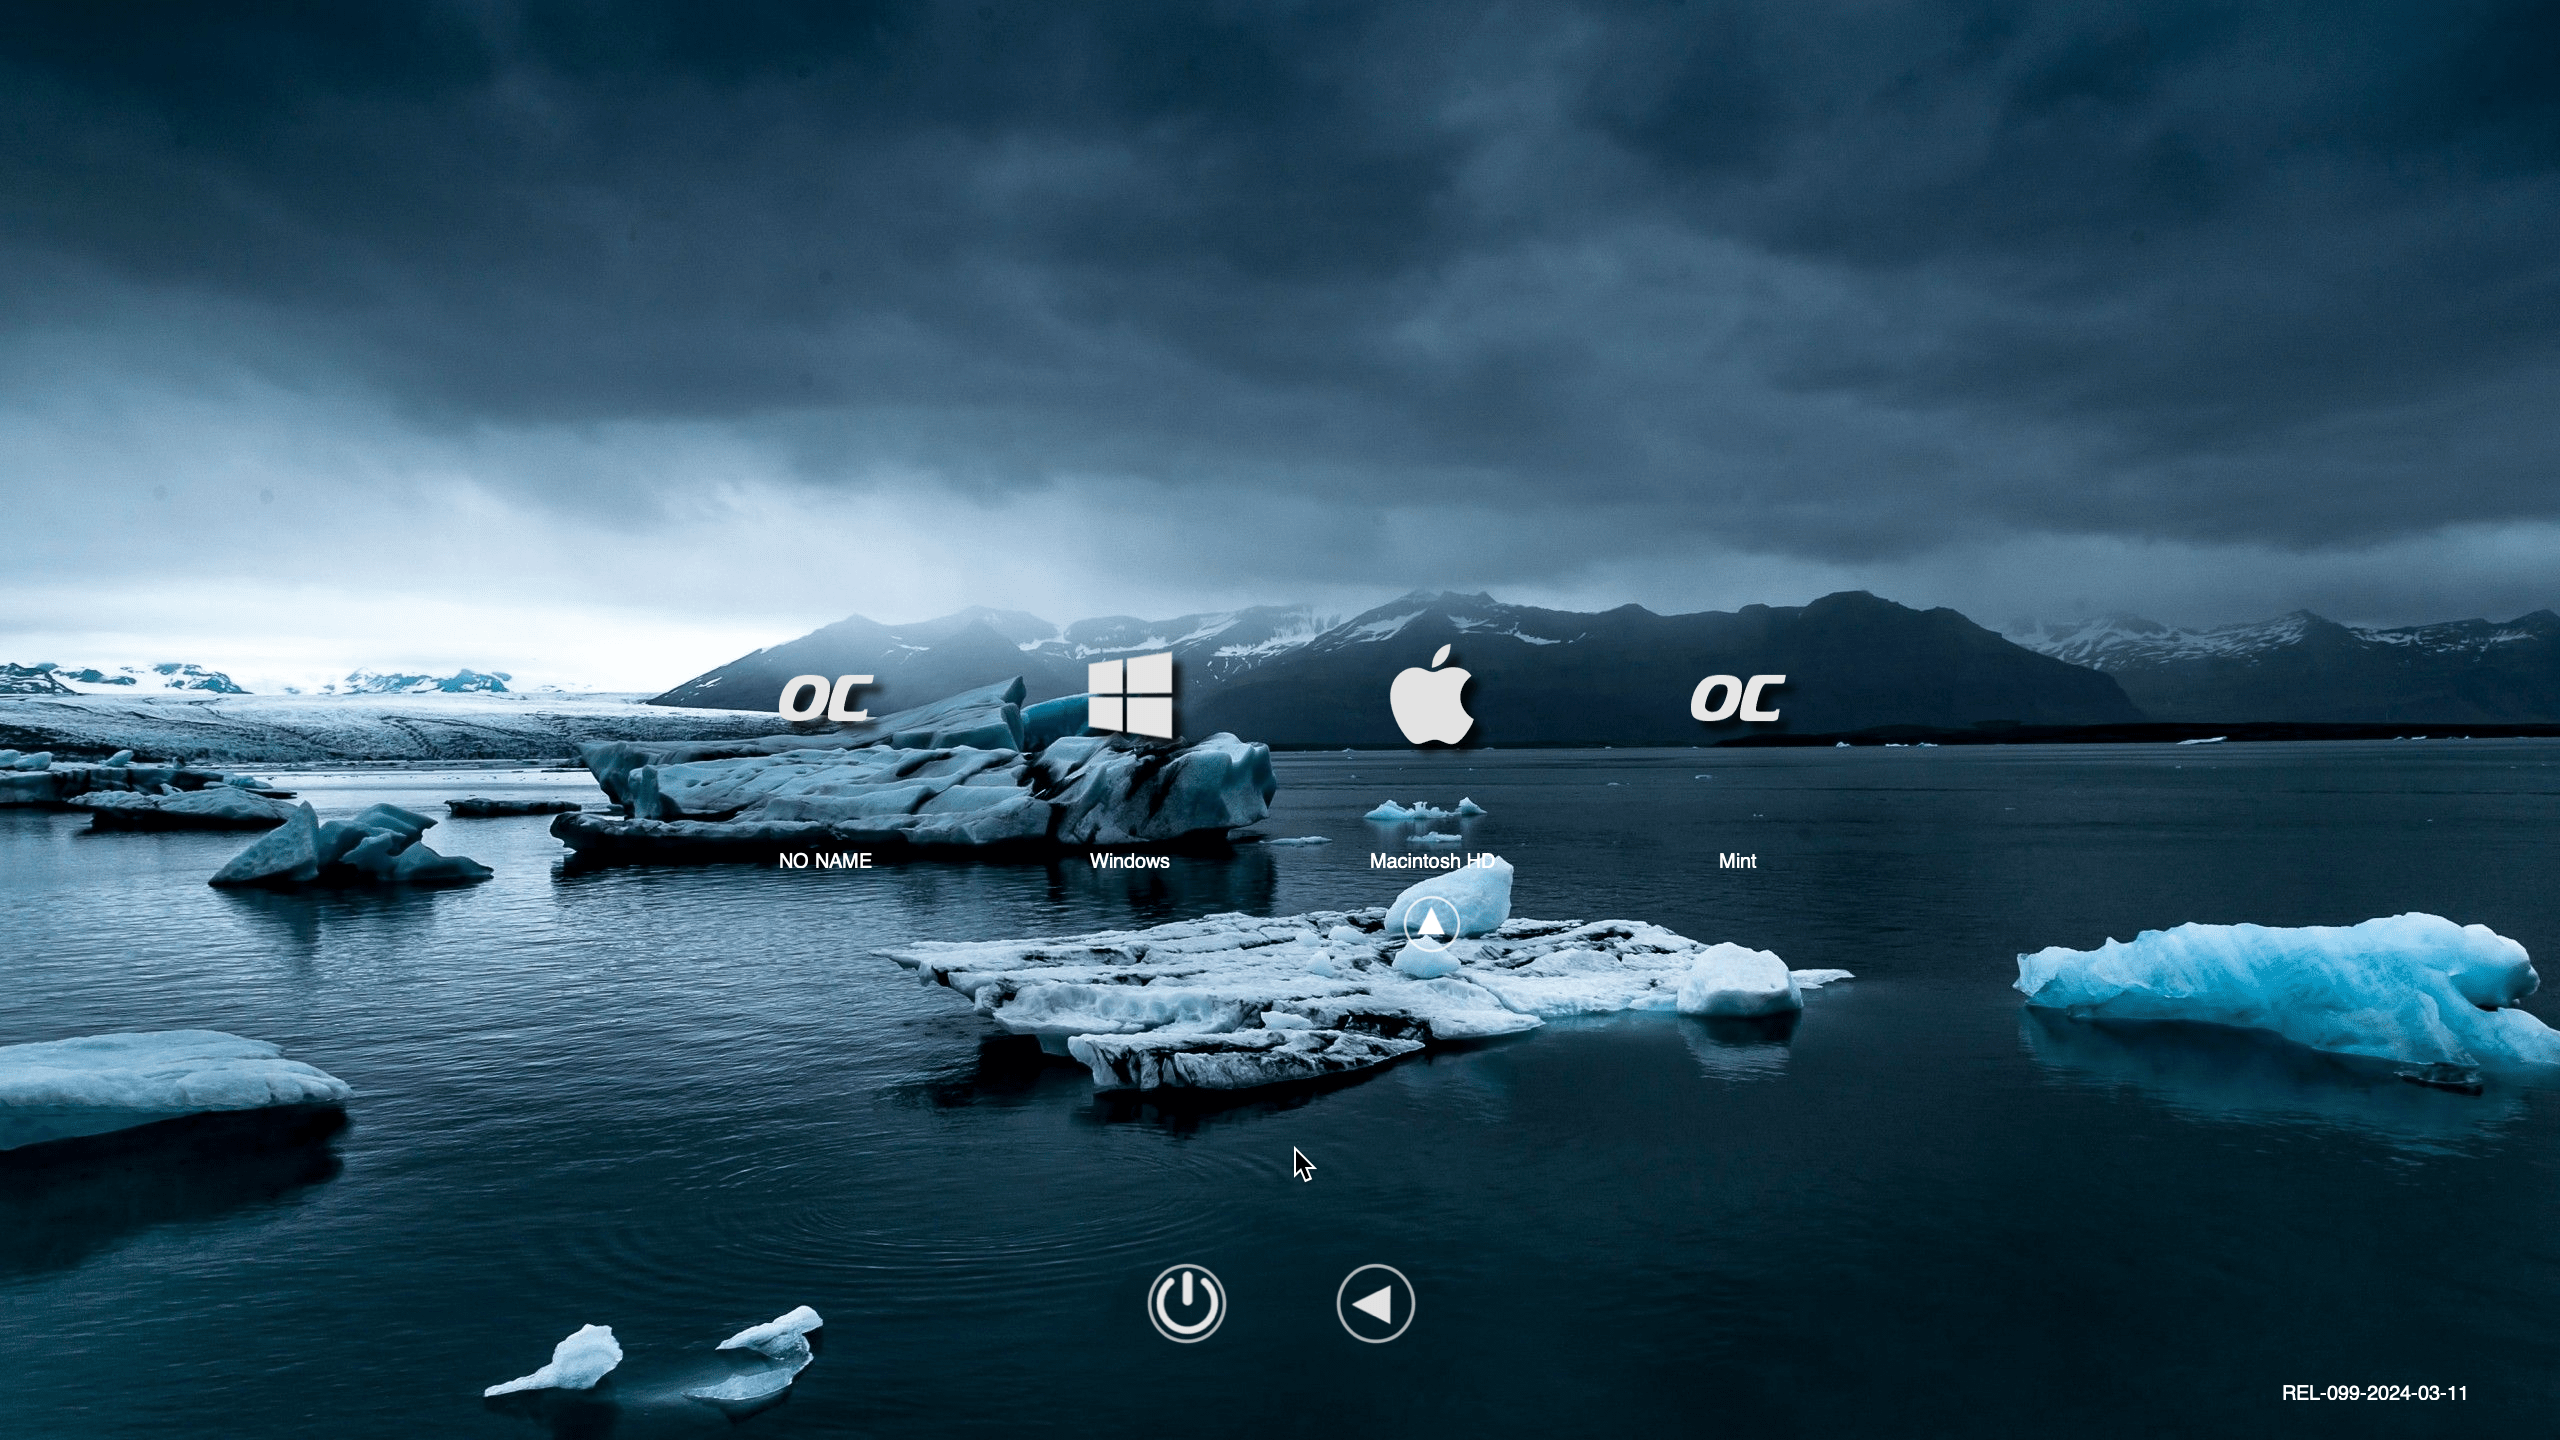
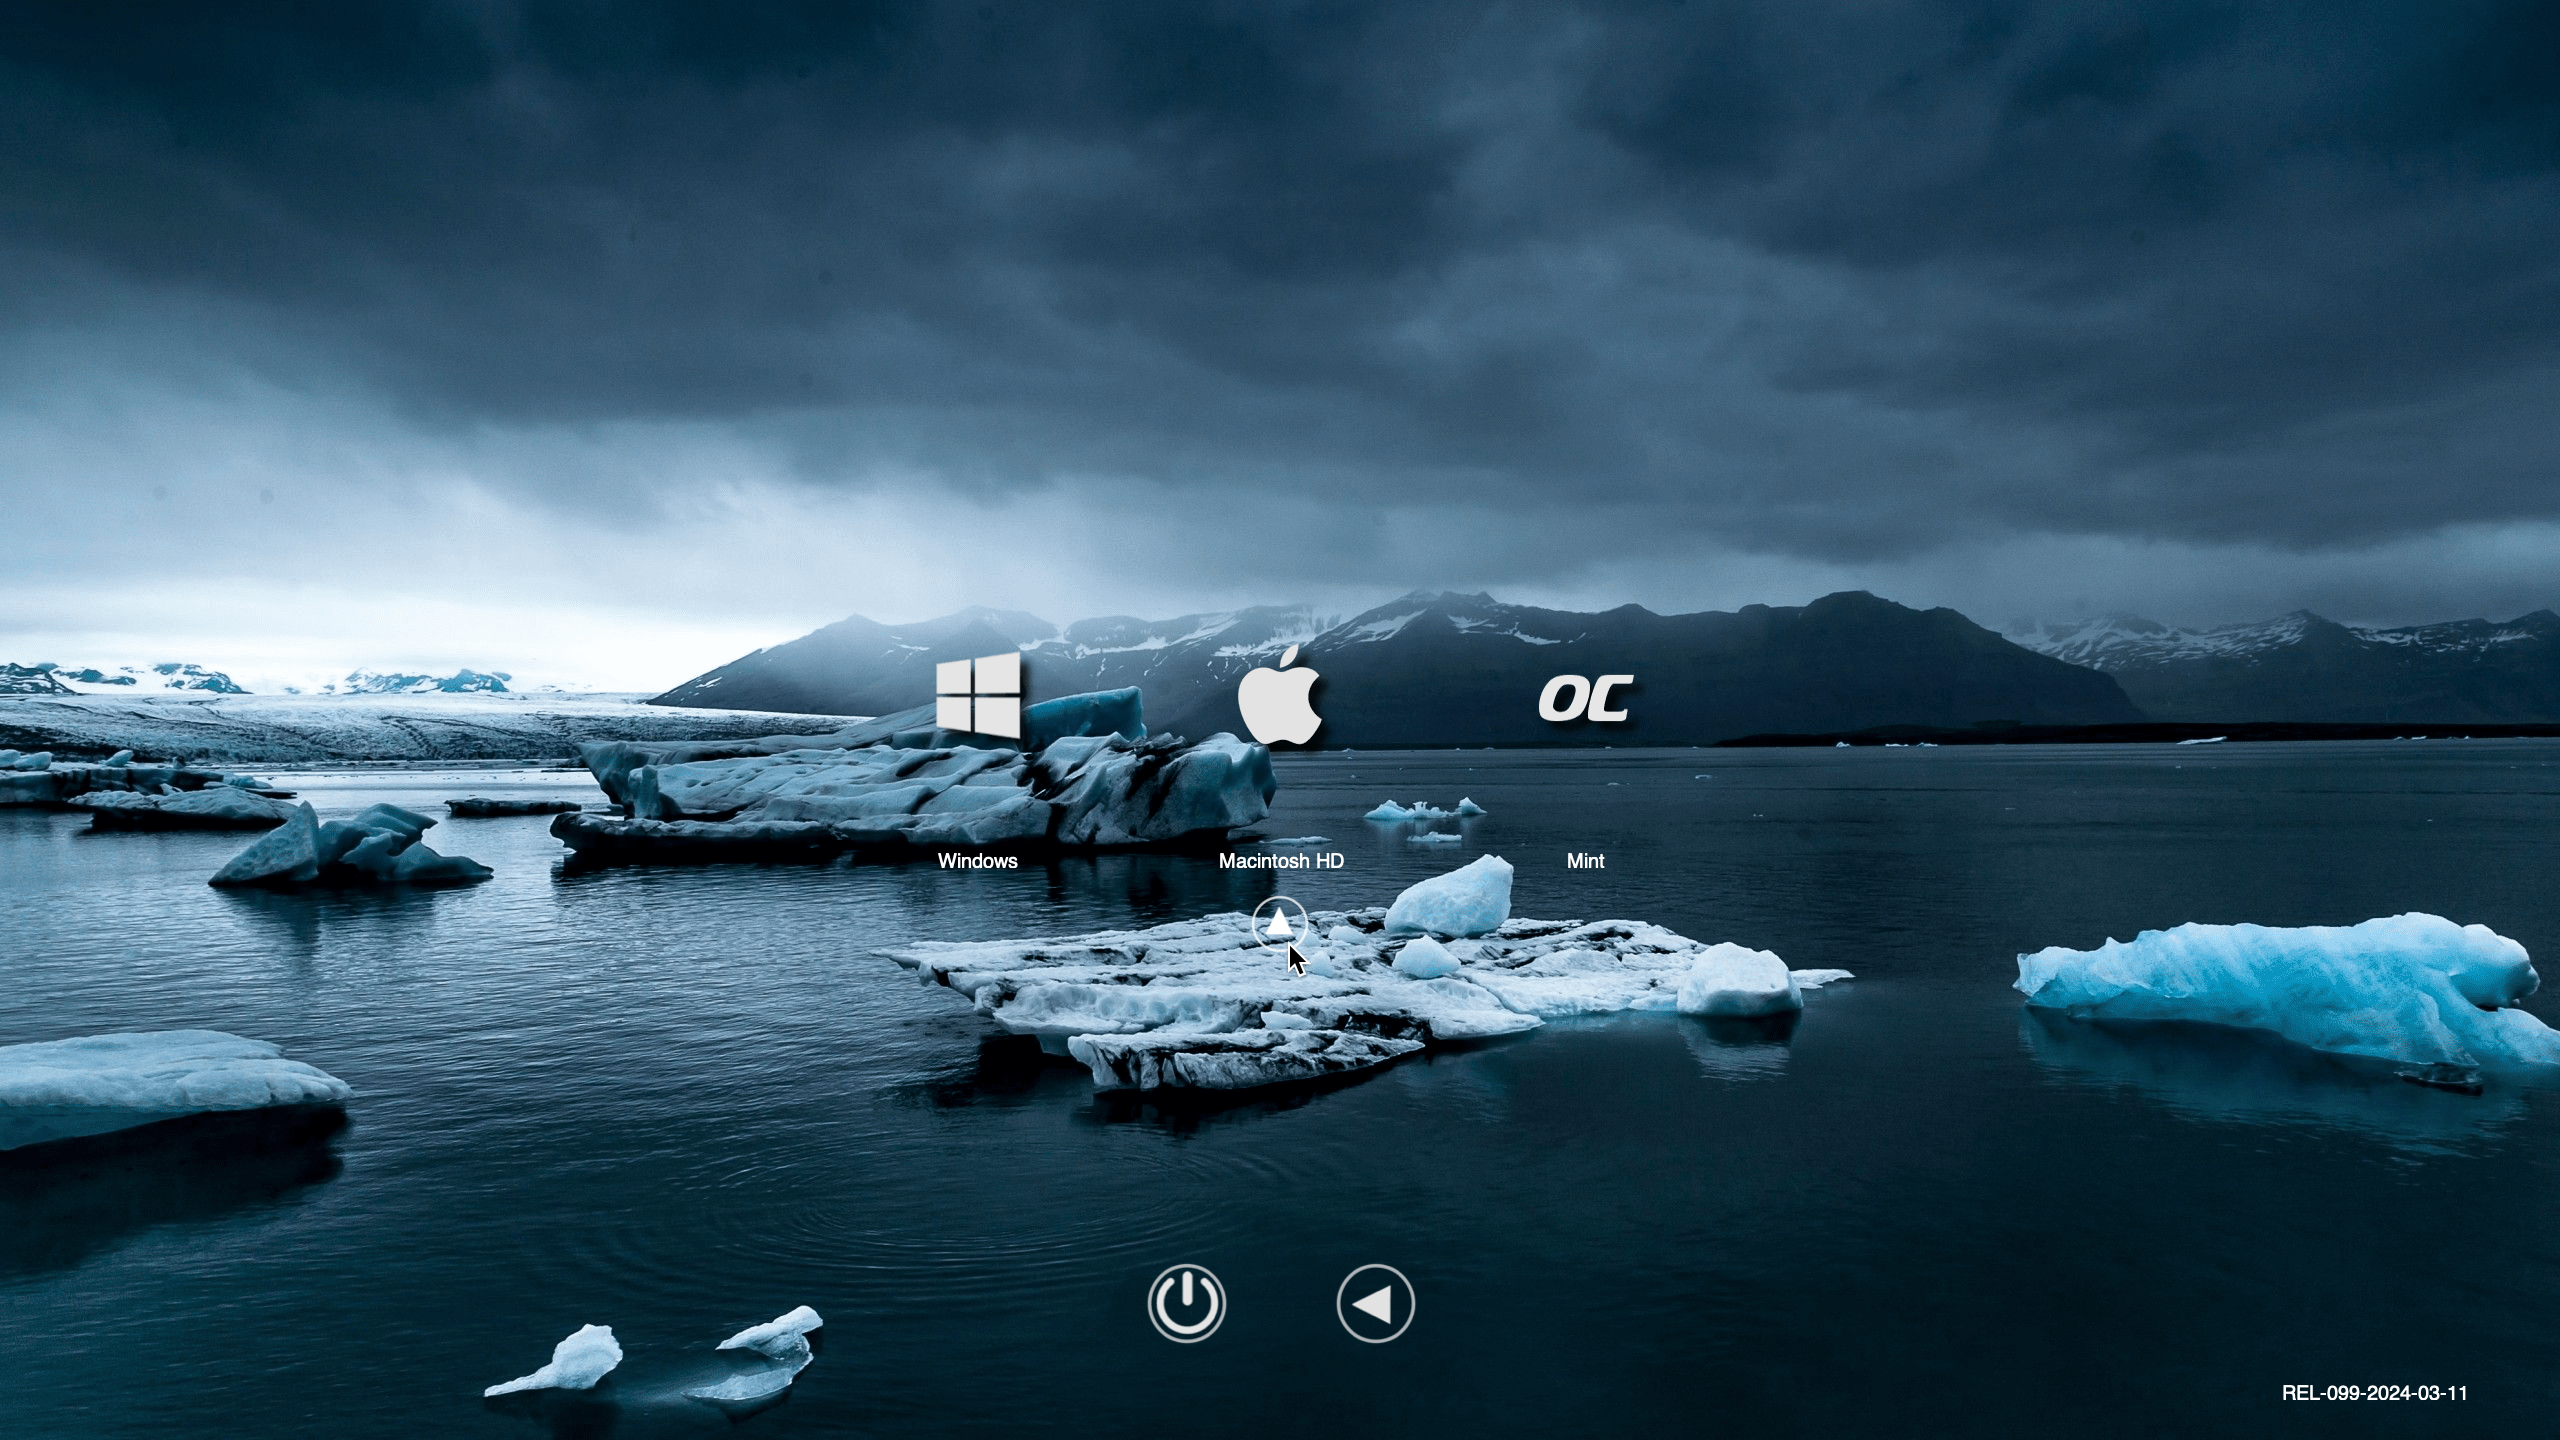
updated screenshots

diff --git a/README.md b/README.md
@@ -18,9 +18,9 @@ Components used for this build:
 
 # 效果
 ![img](https://github.com/wangwanjie/MSI-Z690-A-PRO-12700K-6600XT/blob/main/Images/boot.png)
-![img](https://github.com/wangwanjie/MSI-Z690-A-PRO-12700K-6600XT/blob/main/Images/summary.jpg)
-![img](https://github.com/wangwanjie/MSI-Z690-A-PRO-12700K-6600XT/blob/main/Images/settings.jpg)
-![img](https://github.com/wangwanjie/MSI-Z690-A-PRO-12700K-6600XT/blob/main/Images/neofetch.jpg)
+![img](https://github.com/wangwanjie/MSI-Z690-A-PRO-12700K-6600XT/blob/main/Images/summary.png)
+![img](https://github.com/wangwanjie/MSI-Z690-A-PRO-12700K-6600XT/blob/main/Images/settings.png)
+![img](https://github.com/wangwanjie/MSI-Z690-A-PRO-12700K-6600XT/blob/main/Images/neofetch.png)
 
 # BIOS 设置
 
